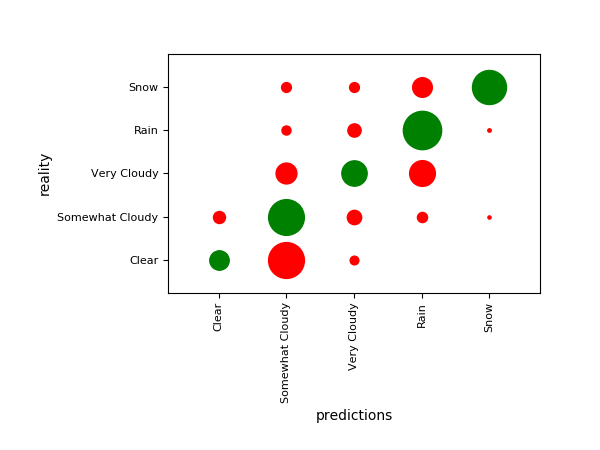
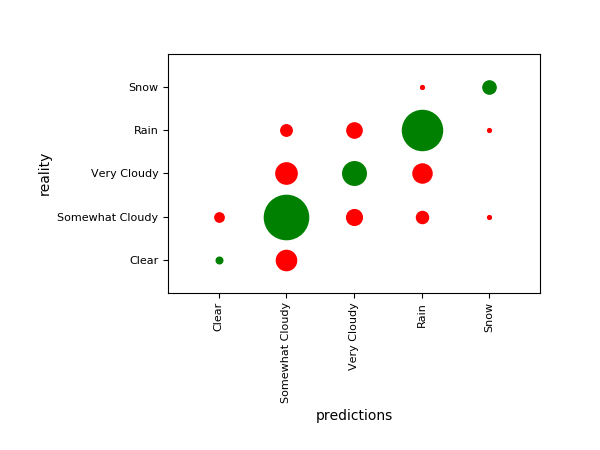
Scale graph to overall total

diff --git a/webcam_weather_predictor.py b/webcam_weather_predictor.py
@@ -202,7 +202,7 @@ def main():
                 y = OPTS[j]
                 if x == y:  style = "go"
                 else:       style = "ro"
-                dotsize = 30*pcgrid2[y].get(x,0)
+                dotsize = np.sqrt(grid[y].get(x,0))*2.75
                 plt.plot(arr[j],arr[i],style,markersize=dotsize)
         plt.savefig(output_dir + "/graph.png")
 
